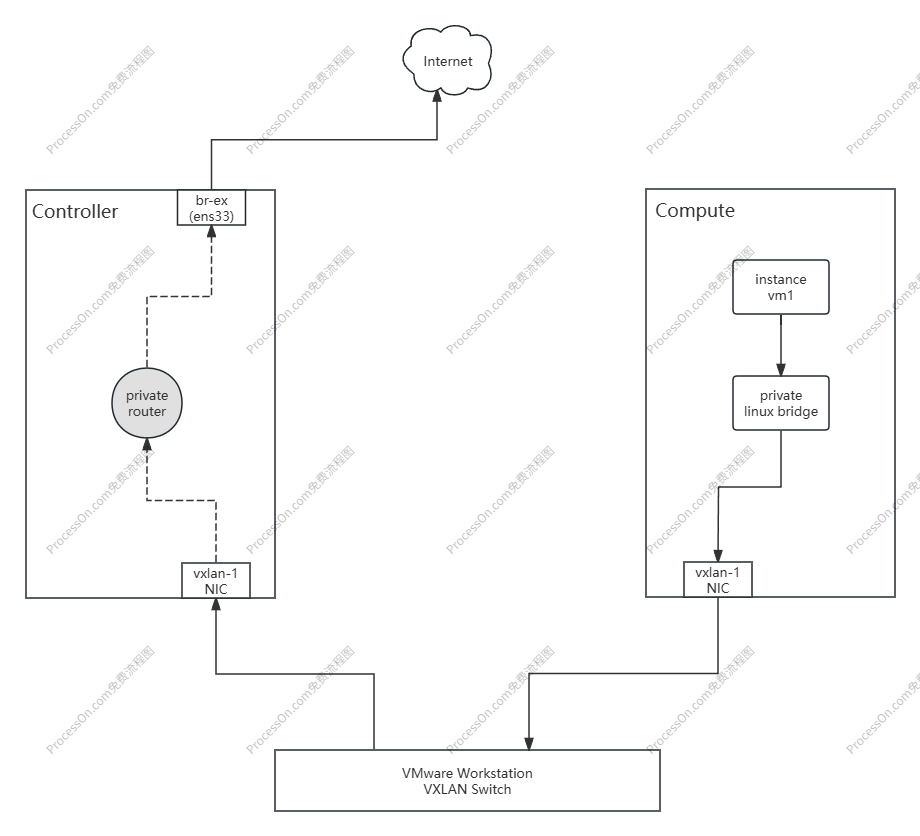
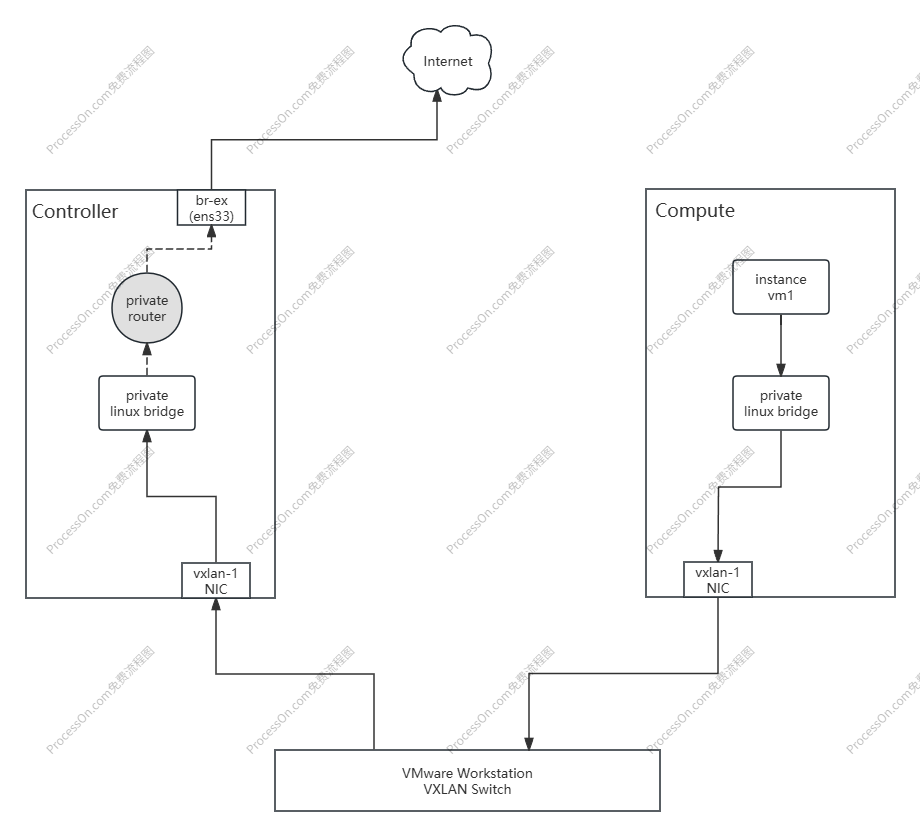
20250607

Changed region(s): [[0.1217, 0.311, 0.213, 0.5598], [0.1522, 0.5909, 0.2435, 0.622]]

diff --git a/openstack/05.管理实例.md b/openstack/05.管理实例.md
@@ -190,7 +190,7 @@ brq70264f7d-9c          8000.8e7f5f4c3ffc       no              tap167fa0a5-68
 
 修改image的虚拟化硬件属性后，需要重新创建实例，重新创建的实例则恢复正常
 
-## 三、网络
+## 三、创建外部网络
 
 通过VNC控制台登录实例后，查看实例的IP，实例通过private网络自动获取到了DHCP地址池中的IP，但此时VM1实例仍是一个信息孤岛，它无法与其他网络实现通信。网络的一个基本知识是，如果要实现跨网段通信，需要具备一个路由设备，因此还需要为VM1实例创建一个Router，但一个虚拟路由器仍无法真正意义上的实现跨网段通信，因此该Router还需要桥接到一个真正的物理网络上
 
@@ -202,16 +202,192 @@ brq70264f7d-9c          8000.8e7f5f4c3ffc       no              tap167fa0a5-68
 
 ![实例网络-2](./image/实例网络-2.png)
 
+
+
 1. [项目] -> [网络] -> [路由] -> [新建路由]；租户新建router，新建Router的操作等同于将上例拓扑中的private router接线到vxlan-1 NIC
 
    ![实例网络-3](./image/实例网络-3.png)
 
-2. [点击路由名称] -> [接口] -> [增加接口] -> [网络]；将router与private网络绑定，绑定接口后可以观察到router的固定IP
+2. [点击路由名称] -> [接口] -> [增加接口] -> [网络]；将router与private网络绑定，绑定接口后可以观察到router的固定IP。新建路由router并绑定private网络的过程，等同于逻辑上将private router与private linux bridge用一条逻辑链路实现互联
 
-   ![实例网络-3](./image/实例网络-3.png)
+   ![实例网络-4](./image/实例网络-4.png)
+
+   在创建router子接口的同时，该子接口也关联了子网，在Controller节点上可以观察到此时已经新建了一个namespace
+
+   ```bash
+   [root@controller ~]# ip netns
+   qdhcp-939b84a1-2245-45e3-886d-7e1ce90c7d8b (id: 1)    # 部署Neutron服务后生成的DHCP namespace
+   qrouter-7ec138f2-b899-4408-929c-25f88890958e (id: 0)    # 创建router后生成的router namespace
+   
+   # 进入该名称空间并启动一个bash进程
+   [root@controller ~]# ip netns exec qrouter-7ec138f2-b899-4408-929c-25f88890958e /bin/bash
+   [root@controller ~]# ip add show         # 查看namespace的IP信息
+   [root@controller ~]# ping 172.16.1.18    # 通过router namespace测试与VM1实例的连通性
+   ```
 
 3. 测试VM1实例与router的通信
 
    ![实例网络-5](./image/实例网络-5.png)
+
+4. [管理员] -> [网络] -> [网络] -> [创建网络]；创建外部网络public
+
+   此时VM1实例已实现与router的通信，但这也就是实例VM1的网络边界了，它无法再进一步的访问互联网，因此还需要通过管理员再创建一个外部网络
+
+   ![实例网络-6](./image/实例网络-6.png)
+
+   通过Neutron服务的配置文件可以确认需要创建网络类型
+
+   ```bash
+   [root@controller ~]# cat /etc/neutron/plugins/ml2/linuxbridge_agent.ini
+   [linux_bridge]
+   physical_interface_mappings = provider:ens33    # 通过此配置可以确认网络名称为provider
+   
+   [root@controller ~]# cat /etc/neutron/plugins/ml2/ml2_conf.ini
+   [ml2_type_flat]
+   flat_networks = provider    # 通过此配置可以确认创建的网络类型应该是Flat
+   ```
+
+5. 配置public外部网络
+
+   ![实例网络-7](./image/实例网络-7.png)
+
+6. 配置public外部网络的地址池；外部网络无需DHCP自动分配，浮动IP皆为手动分配
+
+   ![实例网络-8](./image/实例网络-8.png)
+
+7. [项目] -> [网络] -> [路由] -> [设置网关] -> [选择外部网络] -> [启用SNAT] -> [提交]；调用外部网络
+
+   ![实例网络-9](./image/实例网络-9.png)
+
+   设置网关的步骤在Neutron节点上新建了一个网桥，并且private router与Neutron节点的外部网络端口ens33都连接在这个网桥上，此时等同于打通了router到外部网络的链路
+
+   ![实例网络-10](./image/实例网络-10.png)
+
+   为router设置网关后，router上会新增一个外部网络的接口，且该外部网络接口会从外部网络地址池中获取一个外网IP，通过router的namespace可以查看到详细信息
+
+   ```bash
+   [root@controller ~]# brctl show    # 外部网络的网桥上可以看到router的tap虚拟网卡和Neutron节点的外部网络的网卡ens33
+   bridge name     bridge id               STP enabled     interfaces
+   brq502d08da-b6          8000.000c293f4c96       no              ens33
+                                                           tap7c5d91e1-b7
+   brq939b84a1-22          8000.321cfa021ec0       no              tap2c97a10f-24
+                                                           tapc001f9db-6a
+                                                           vxlan-1
+   virbr0          8000.525400c2bce1       yes             virbr0-nic
+   
+   [root@controller ~]# ip netns exec qrouter-7ec138f2-b899-4408-929c-25f88890958e /bin/bash
+   [root@controller ~]# ip add show 
+   1: lo: <LOOPBACK,UP,LOWER_UP> mtu 65536 qdisc noqueue state UNKNOWN group default qlen 1000
+       link/loopback 00:00:00:00:00:00 brd 00:00:00:00:00:00
+       inet 127.0.0.1/8 scope host lo
+          valid_lft forever preferred_lft forever
+       inet6 ::1/128 scope host 
+          valid_lft forever preferred_lft forever
+   2: qr-c001f9db-6a@if8: <BROADCAST,MULTICAST,UP,LOWER_UP> mtu 1450 qdisc noqueue state UP group default qlen 1000
+       link/ether fa:16:3e:e6:f5:02 brd ff:ff:ff:ff:ff:ff link-netnsid 0
+       inet 172.16.1.1/24 brd 172.16.1.255 scope global qr-c001f9db-6a
+          valid_lft forever preferred_lft forever
+       inet6 fe80::f816:3eff:fee6:f502/64 scope link 
+          valid_lft forever preferred_lft forever
+   3: qg-7c5d91e1-b7@if15: <BROADCAST,MULTICAST,UP,LOWER_UP> mtu 1500 qdisc noqueue state UP group default qlen 1000    # 新增的外部网络的IP信息，此外部网络地址用于实例的出站SNAT
+       link/ether fa:16:3e:c7:c7:c5 brd ff:ff:ff:ff:ff:ff link-netnsid 0
+       inet 192.168.31.75/24 brd 192.168.31.255 scope global qg-7c5d91e1-b7
+          valid_lft forever preferred_lft forever
+       inet6 fe80::f816:3eff:fec7:c7c5/64 scope link 
+          valid_lft forever preferred_lft forever
+   ```
+
+8. [项目] -> [网络] -> [浮动IP] -> [分配IP给项目]；此时VM1实例已经可以实现访问外部网络，但外部网络仍无法直接访问到该VM1实例，实例还需要一个浮动IP对外提供服务。浮动IP就是从外部网络IP中申请一个地址与实例做关联
+
+   ![实例网络-11](./image/实例网络-11.png)
+
+    [项目] -> [计算] -> [实例] -> [绑定浮动IP]；为实例绑定浮动IP，实际上这个浮动IP是绑定在了private router上，当外部请求通过Neutron节点的外网接口将请求转交到router时，router会根据NAT地址表将外部IP映射到具体实例上
+    
+    ![实例网络-12](./image/实例网络-12.png)
+    
+    此时观察router的namespace可以看到，router的外部接口上已经存在两个外部IP，一个用于实例出站的SNAT转换，另一个则是浮动IP
+    
+    ```bash
+    [root@controller ~]# ip netns exec qrouter-7ec138f2-b899-4408-929c-25f88890958e /bin/bash
+    [root@controller ~]# ip add show 
+    1: lo: <LOOPBACK,UP,LOWER_UP> mtu 65536 qdisc noqueue state UNKNOWN group default qlen 1000
+        link/loopback 00:00:00:00:00:00 brd 00:00:00:00:00:00
+        inet 127.0.0.1/8 scope host lo
+           valid_lft forever preferred_lft forever
+        inet6 ::1/128 scope host 
+           valid_lft forever preferred_lft forever
+    2: qr-c001f9db-6a@if8: <BROADCAST,MULTICAST,UP,LOWER_UP> mtu 1450 qdisc noqueue state UP group default qlen 1000
+        link/ether fa:16:3e:e6:f5:02 brd ff:ff:ff:ff:ff:ff link-netnsid 0
+        inet 172.16.1.1/24 brd 172.16.1.255 scope global qr-c001f9db-6a
+           valid_lft forever preferred_lft forever
+        inet6 fe80::f816:3eff:fee6:f502/64 scope link 
+           valid_lft forever preferred_lft forever
+    3: qg-7c5d91e1-b7@if15: <BROADCAST,MULTICAST,UP,LOWER_UP> mtu 1500 qdisc noqueue state UP group default qlen 1000
+        link/ether fa:16:3e:c7:c7:c5 brd ff:ff:ff:ff:ff:ff link-netnsid 0
+        inet 192.168.31.75/24 brd 192.168.31.255 scope global qg-7c5d91e1-b7
+           valid_lft forever preferred_lft forever
+        inet 192.168.31.73/32 brd 192.168.31.73 scope global qg-7c5d91e1-b7
+           valid_lft forever preferred_lft forever    # 此外部IP用于VM1实例的一对一映射
+        inet6 fe80::f816:3eff:fec7:c7c5/64 scope link 
+           valid_lft forever preferred_lft forever
+    [root@controller ~]# exit
+    [root@controller ~]# openstack server list    # 查看实例列表
+    ```
+    
+    >VMware网络须知
+    >
+    >如果实验环境使用VMware Workstation实现，那么在NAT网络模式下，实例可能无法实现正常连接互联网，OpenStack所使用的外部网络的IP不是由VMware直接分配的，VMware Workstation可能不会对OpenStack所使用的IP做NAT转换。但这不影响实例最远能够访问到本地宿主机IP
+
+9. 验证实例的外部访问
+
+   ![实例网络-13](./image/实例网络-13.png)
+
+   验证外部访问时需要注意，除了OpenStack的安全组和浮动IP配置需要检查以外，还需要了解image本身的SSH配置，对于不熟悉的image还需要检查下系统是否允许root登录、是否允许密码登录等。此实验目前使用cirros镜像做测试，在cirros系统上没有找到有关SSH服务的配置文件，因此无法测试外部网络SSH连接到cirros上，ICMP测试正常。
+
+## 四、Provider networks网络模型（仅作演示）
+
+**此配置属于不合规操作，仅作学习理解演示作用**
+
+目前的实验环境中使用Self-service networks网络模型，这种网络模型的特点在于，从创建租户网络到创建外部网络的过程，所有步骤都不可省略，所有实例的流量都需要通过Neutron节点出站，这可能会对Neutron节点造成较大压力，这个问题可以通过分布式router解决，或使用provider networks网络模型解决。provider networks模型的网络隔离通过物理网络VLAN实现，相比较之下Self-service networks使用VXLAN实现网络隔离
+
+在OpenStack官方指南上仅描述了每种网络模型的单一的配置步骤，在本实验环境中通过同时配置provider networks和Self-service networks模型来描述两种模型的差异，但在VMware Workstation虚拟化环境下无法对provider networks模型进行验证
+
+在OpenStack官方指南对于provider networks模型的配置中，关于Neutron服务的`/etc/neutron/plugins/ml2/ml2_config.ini`配置文件如下：
+
+```bash
+[ml2]
+type_drivers = flat,vlan    # 在现有的配置文件中，已经配置了vlan类型
+tenant_network_types =      # provider networks模型的租户网络类型指定为空，为空表示禁用租户自定义网络，即禁用Self-service networks
+```
+
+**此配置属于不合规操作，仅作学习理解演示作用**
+
+1. 通过VMware Workstation为Controller和Compute节点添加一块网卡，单独用于测试provider networks模型
+
+2. 配置新网卡“ens38”
+
+   ```bash
+   [root@controller ~]# nmcli connection delete "Wired connection 1"
+   [root@controller ~]# nmcli connection add type ethernet ifname ens38 con-name ens38 autoconnect yes ipv4.method manual ipv4.addresses 10.0.0.1/24
+   [root@controller ~]# nmcli connection show
+   ```
+
+3. 基于Self-service networks模型的配置文件进行修改，Neutron与Compute节点都需要修改
+
+   ```bash
+   [root@controller ~]# vim /etc/neutron/plugins/ml2/ml2_conf.ini
+   [ml2]
+   type_drivers = flat,vlan,vxlan    # 需要同时具备vlan和vxlan参数
+   
+   [ml2_type_vxlan]    # 此选项需要type_drivers选项具备vxlan参数的情况下，才会有效
+   vni_ranges = 1:1000
+   
+   [ml2_type_vlan]     # 新增vlan相关配置
+   network_vlan_ranges = default:1:1000    # 为vlan网络命名为default，并划分vlan标签ID1~1000
+   
+   [root@controller ~]# vim /etc/neutron/plugins/ml2/linuxbridge_agent.ini
+   [linux_bridge]
+   physical_interface_mappings = provider:ens33,default:ens38    # 存在多个映射的情况下，用“,”号分隔
+   ```
 
    
